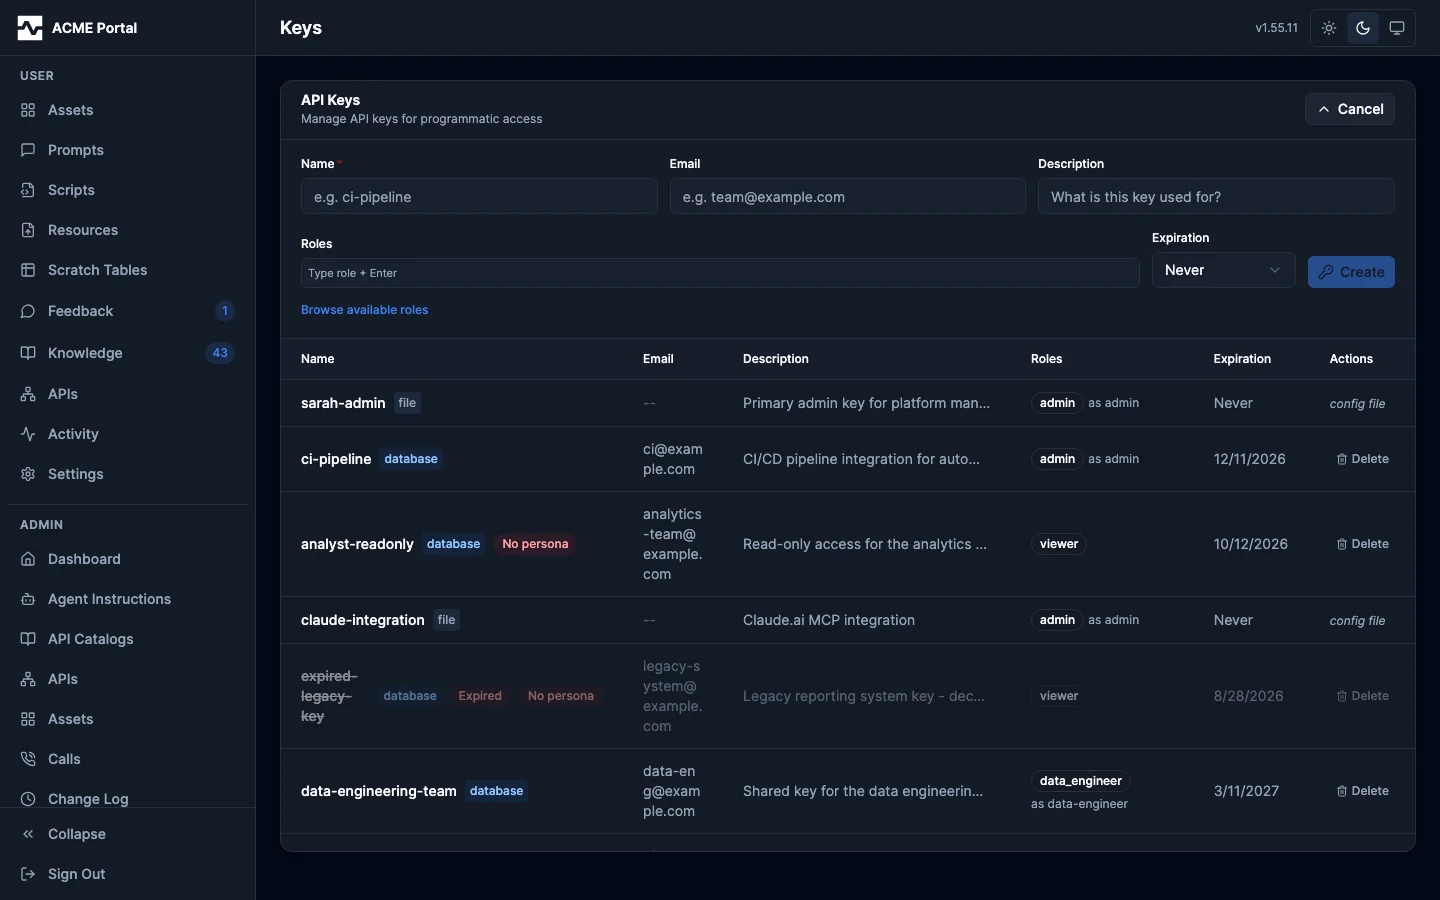
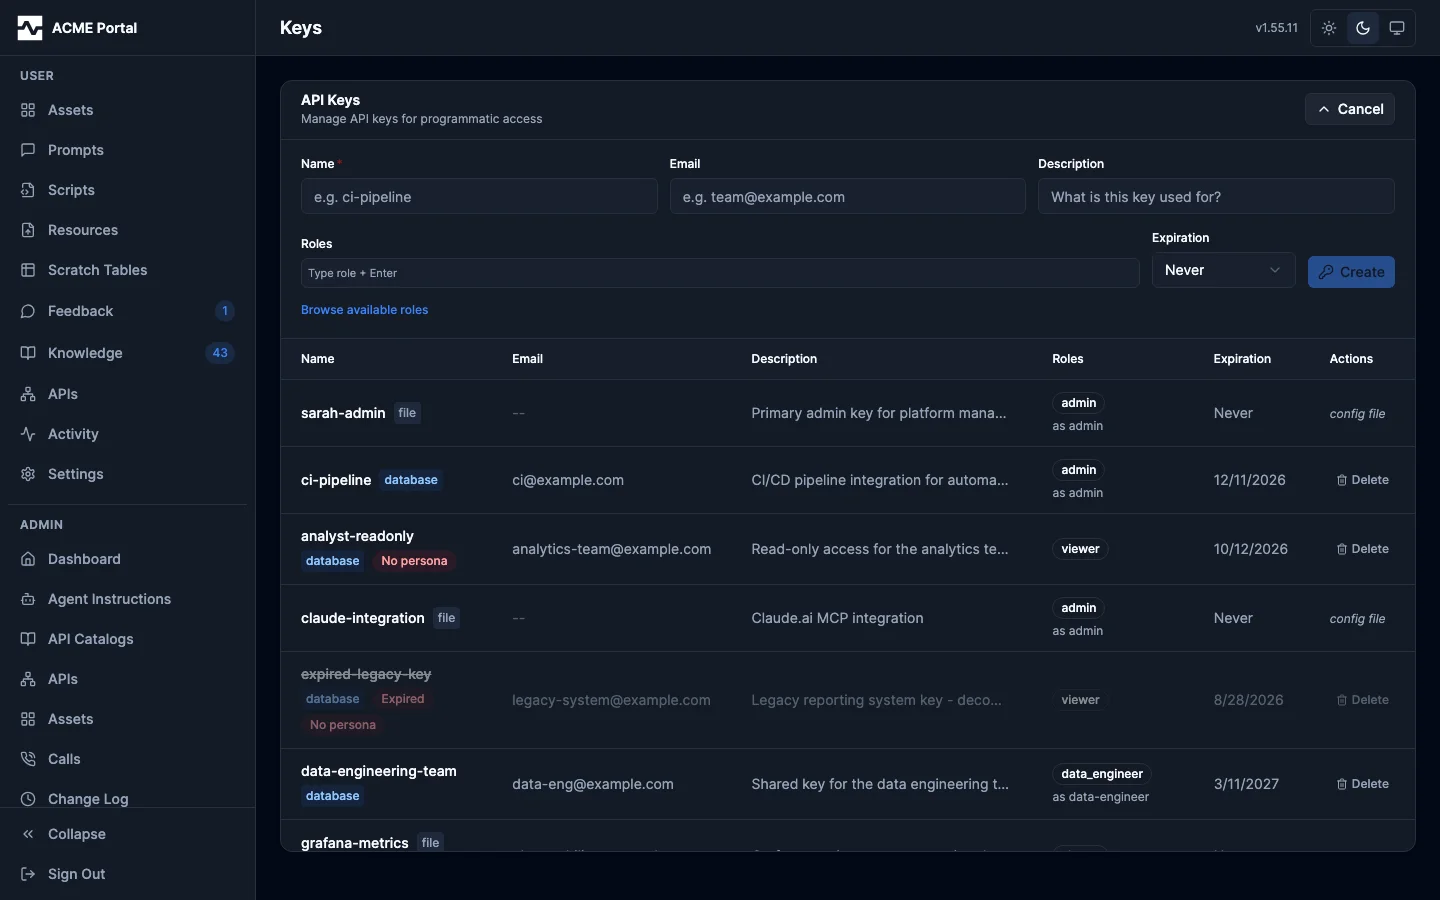
fix(portal): the Email column on Admin > API Keys wrapped an address onto several lines while Name and Roles took the width
One layout fix in `ui/src/pages/settings/keys/KeysTable.tsx`: 1) email and key name no longer break mid-string (`break-all` removed), 2) the name's source, Expired and No persona badges and the roles' `as <persona>` label wrap beneath instead of widening their columns, 3) Description takes the remaining width (`w-full` header, `max-w-0 truncate` cell) with the full text in its `title`. The `admin-admin-keys` and `admin-admin-key-create` screenshots are recaptured in light and dark.

diff --git a/ui/src/pages/settings/keys/KeysTable.tsx b/ui/src/pages/settings/keys/KeysTable.tsx
@@ -43,7 +43,7 @@ export function KeysTable({
         <TableRow className="bg-muted/30 text-xs text-muted-foreground hover:bg-muted/30">
           <TableHead className="px-5">Name</TableHead>
           <TableHead className="px-5">Email</TableHead>
-          <TableHead className="px-5">Description</TableHead>
+          <TableHead className="w-full px-5">Description</TableHead>
           <TableHead className="px-5">Roles</TableHead>
           <TableHead className="px-5">Expiration</TableHead>
           {!isReadOnly && <TableHead className="w-20 px-5">Actions</TableHead>}
@@ -84,18 +84,25 @@ function KeyRow({
   onCancelDelete: () => void;
   onConfirmDelete: (name: string) => void;
 }) {
-  // ui/table sets whitespace-nowrap on every cell; with six columns the prose
-  // ones have to wrap, or the Actions column is pushed out of the card and
-  // behind a horizontal scroll.
+  // Email and name are identifiers: a line break inside one is harder to read
+  // than a wider column, so they stay on one line. The name's badges and the
+  // roles' persona wrap beneath instead of widening their columns, and the
+  // description takes whatever width is left (w-full on its header, max-w-0
+  // so truncate can bite inside an auto-layout table), truncated with the full
+  // text on hover, so short names and emails get short columns and Actions
+  // stays inside the card.
   return (
     <TableRow className={cn(k.expired && "opacity-50")}>
       <TableCell className="whitespace-normal px-5 py-3 font-medium">
         <KeyName apiKey={k} />
       </TableCell>
-      <TableCell className="whitespace-normal break-all px-5 py-3 text-muted-foreground">
+      <TableCell className="px-5 py-3 text-muted-foreground">
         {k.email || <span className="italic opacity-50">--</span>}
       </TableCell>
-      <TableCell className="max-w-[18rem] truncate px-5 py-3 text-muted-foreground">
+      <TableCell
+        className="max-w-0 truncate px-5 py-3 text-muted-foreground"
+        title={k.description || undefined}
+      >
         {k.description || <span className="italic opacity-50">--</span>}
       </TableCell>
       <TableCell className="whitespace-normal px-5 py-3">
@@ -126,8 +133,8 @@ function KeyRow({
 // lapsed.
 function KeyName({ apiKey: k }: { apiKey: APIKeySummary }) {
   return (
-    <div className="flex items-center gap-2">
-      <span className={cn(k.expired && "line-through")}>{k.name}</span>
+    <div className="flex flex-wrap items-center gap-x-2 gap-y-1">
+      <span className={cn("whitespace-nowrap", k.expired && "line-through")}>{k.name}</span>
       {k.source && (
         <Badge
           variant={k.source === "file" ? "muted" : "info"}
@@ -158,14 +165,16 @@ function KeyRoles({ roles, persona }: { roles: string[]; persona?: string }) {
     );
   }
   return (
-    <div className="flex flex-wrap items-center gap-1">
-      {roles.map((r) => (
-        <Badge key={r} variant="outline">
-          {r}
-        </Badge>
-      ))}
+    <div className="space-y-1">
+      <div className="flex flex-wrap gap-1">
+        {roles.map((r) => (
+          <Badge key={r} variant="outline">
+            {r}
+          </Badge>
+        ))}
+      </div>
       {persona && (
-        <span className="text-xs text-muted-foreground">as {persona}</span>
+        <div className="whitespace-nowrap text-xs text-muted-foreground">as {persona}</div>
       )}
     </div>
   );
